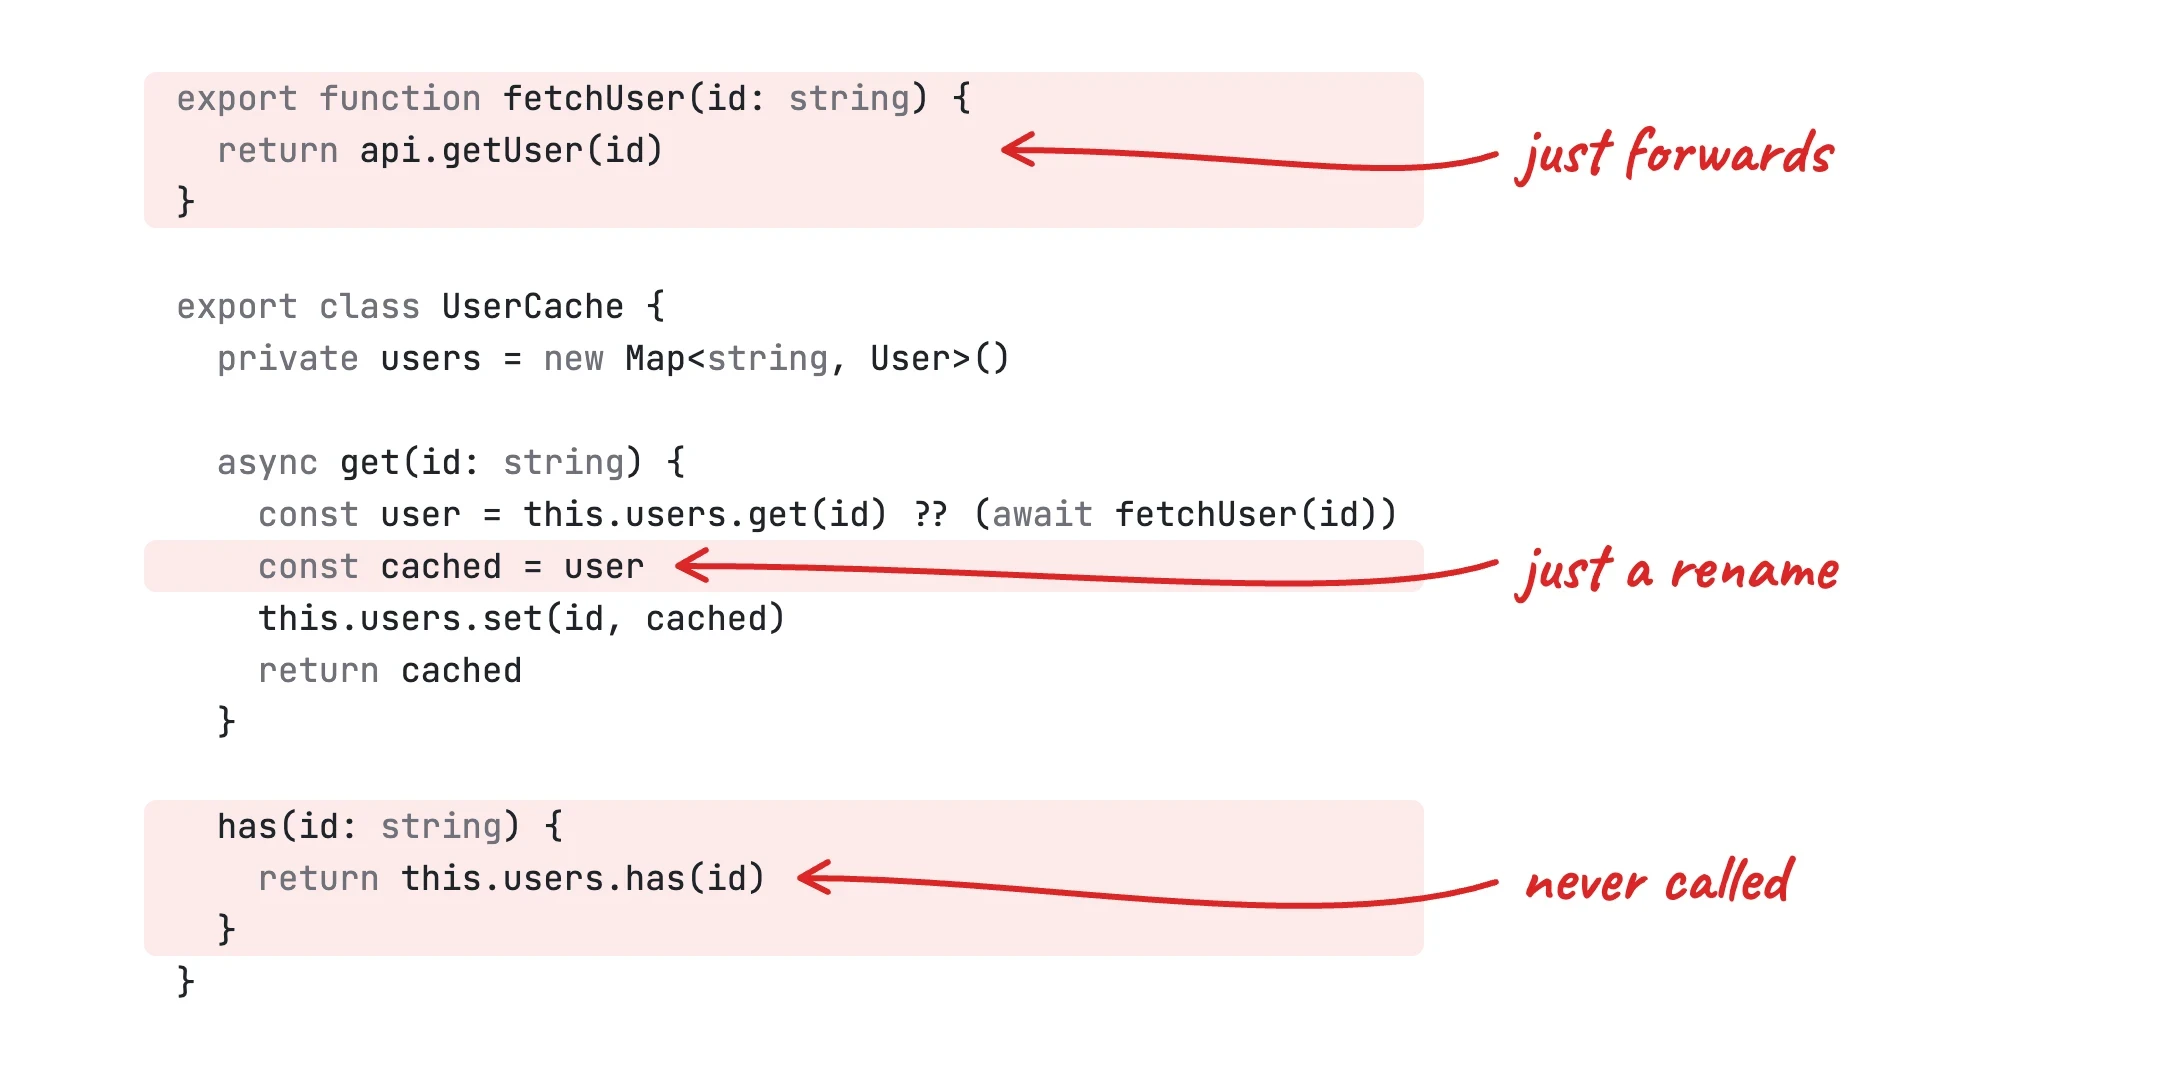
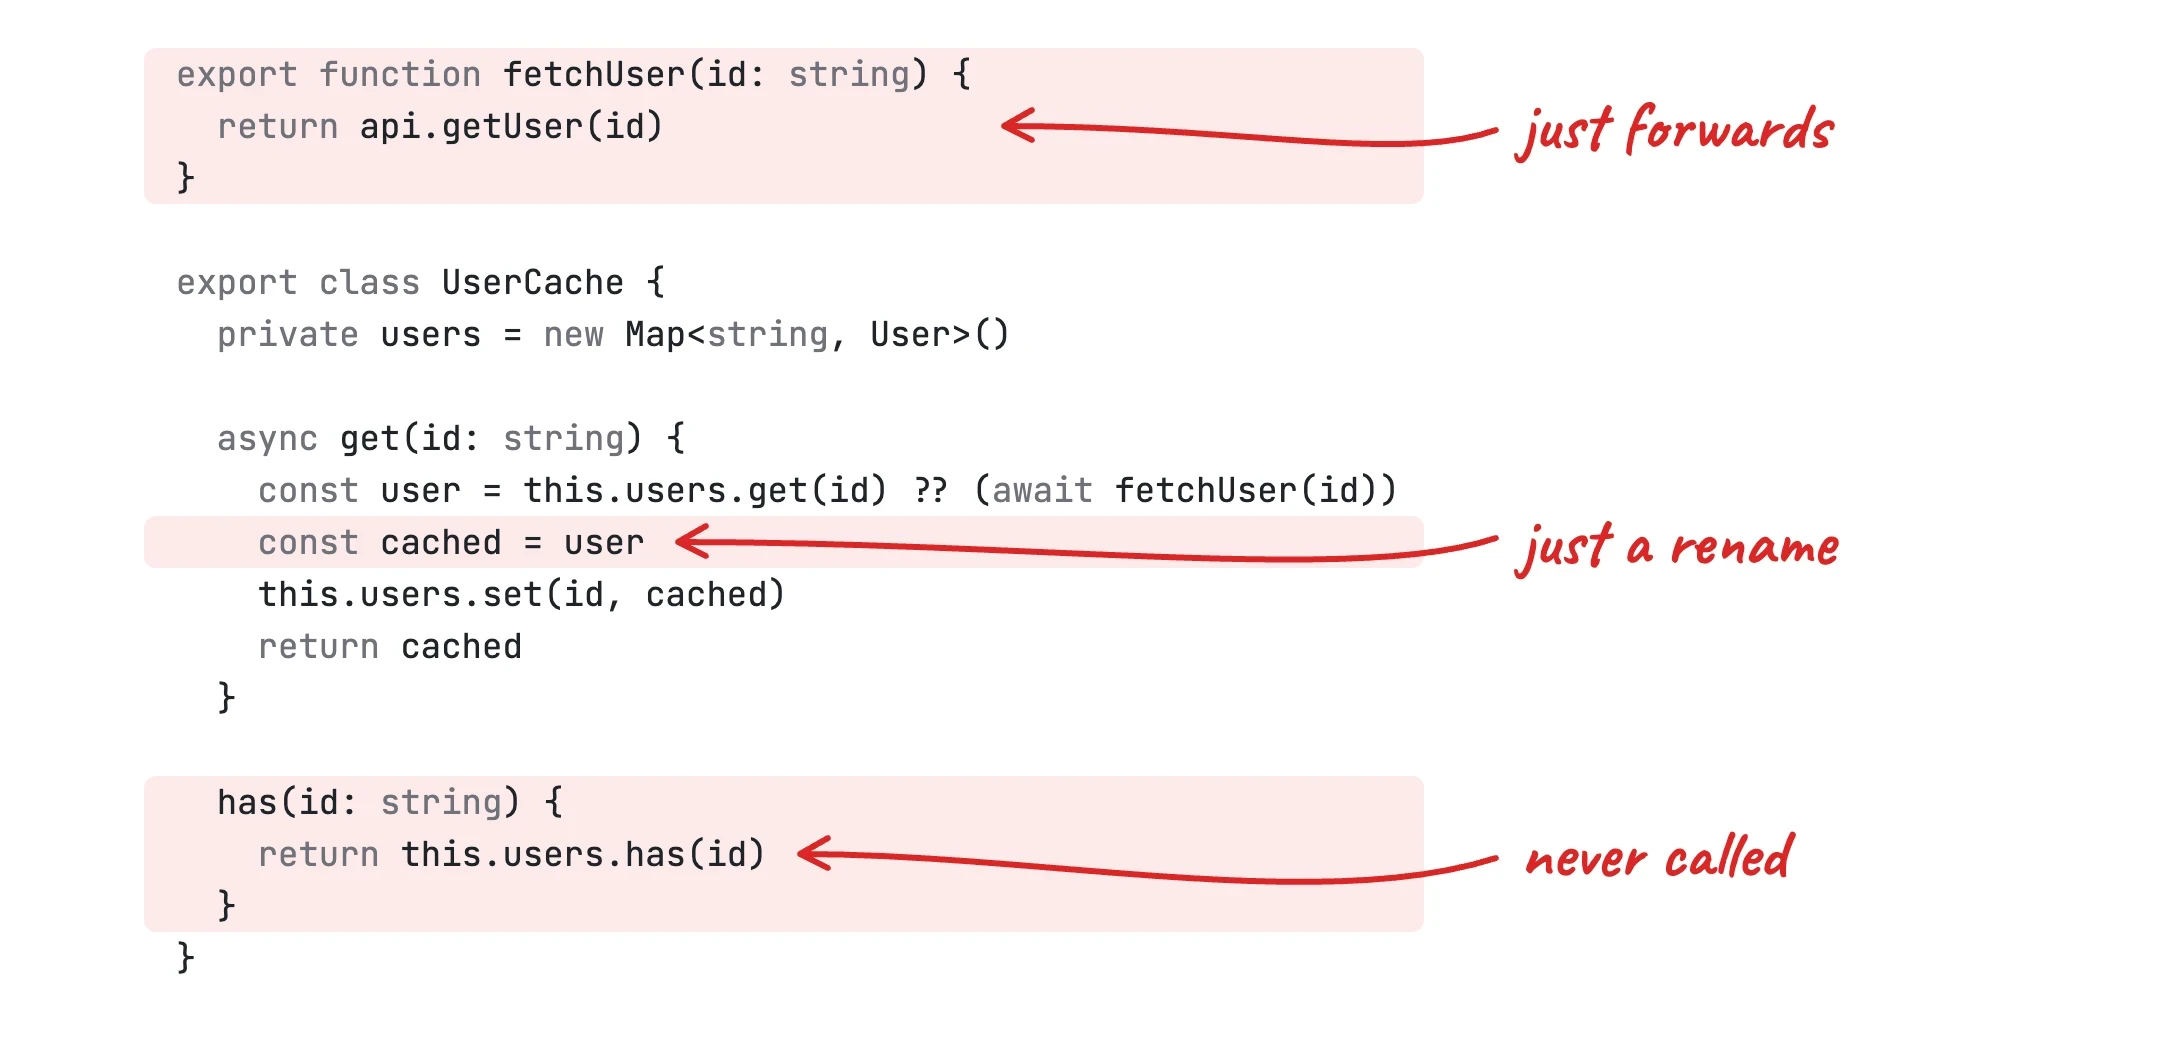
Even out spacing around the README header divider

diff --git a/README.md b/README.md
@@ -3,16 +3,17 @@
     <source media="(prefers-color-scheme: dark)" srcset="assets/logo-dark.webp?v=4">
     <img src="assets/logo-light.webp?v=4" width="1000" alt="slop-police: Stop LLM crimes in your codebase">
   </picture>
-  <br>
-  <a href="https://github.com/kubk/slop-police/actions/workflows/ci.yml"><img src="https://img.shields.io/github/actions/workflow/status/kubk/slop-police/ci.yml?branch=main&label=tests" alt="Tests"></a>
-  <a href="https://www.npmjs.com/package/slop-police"><img src="https://img.shields.io/npm/dw/slop-police" alt="npm weekly downloads"></a>
-  <a href="LICENSE"><img src="https://img.shields.io/github/license/kubk/slop-police" alt="MIT license"></a>
+  <p>
+    <a href="https://github.com/kubk/slop-police/actions/workflows/ci.yml"><img src="https://img.shields.io/github/actions/workflow/status/kubk/slop-police/ci.yml?branch=main&label=tests" alt="Tests"></a>
+    <a href="https://www.npmjs.com/package/slop-police"><img src="https://img.shields.io/npm/dw/slop-police" alt="npm weekly downloads"></a>
+    <a href="LICENSE"><img src="https://img.shields.io/github/license/kubk/slop-police" alt="MIT license"></a>
+  </p>
 </h1>
 
 <p align="center">
   <picture>
-    <source media="(prefers-color-scheme: dark)" srcset="assets/readme-dark.webp?v=4">
-    <img src="assets/readme-light.webp?v=4" width="1080" alt="slop-police flags a function that just forwards, a variable that is just a rename, and a method that is never called">
+    <source media="(prefers-color-scheme: dark)" srcset="assets/readme-dark.webp?v=5">
+    <img src="assets/readme-light.webp?v=5" width="1080" alt="slop-police flags a function that just forwards, a variable that is just a rename, and a method that is never called">
   </picture>
 </p>
 
